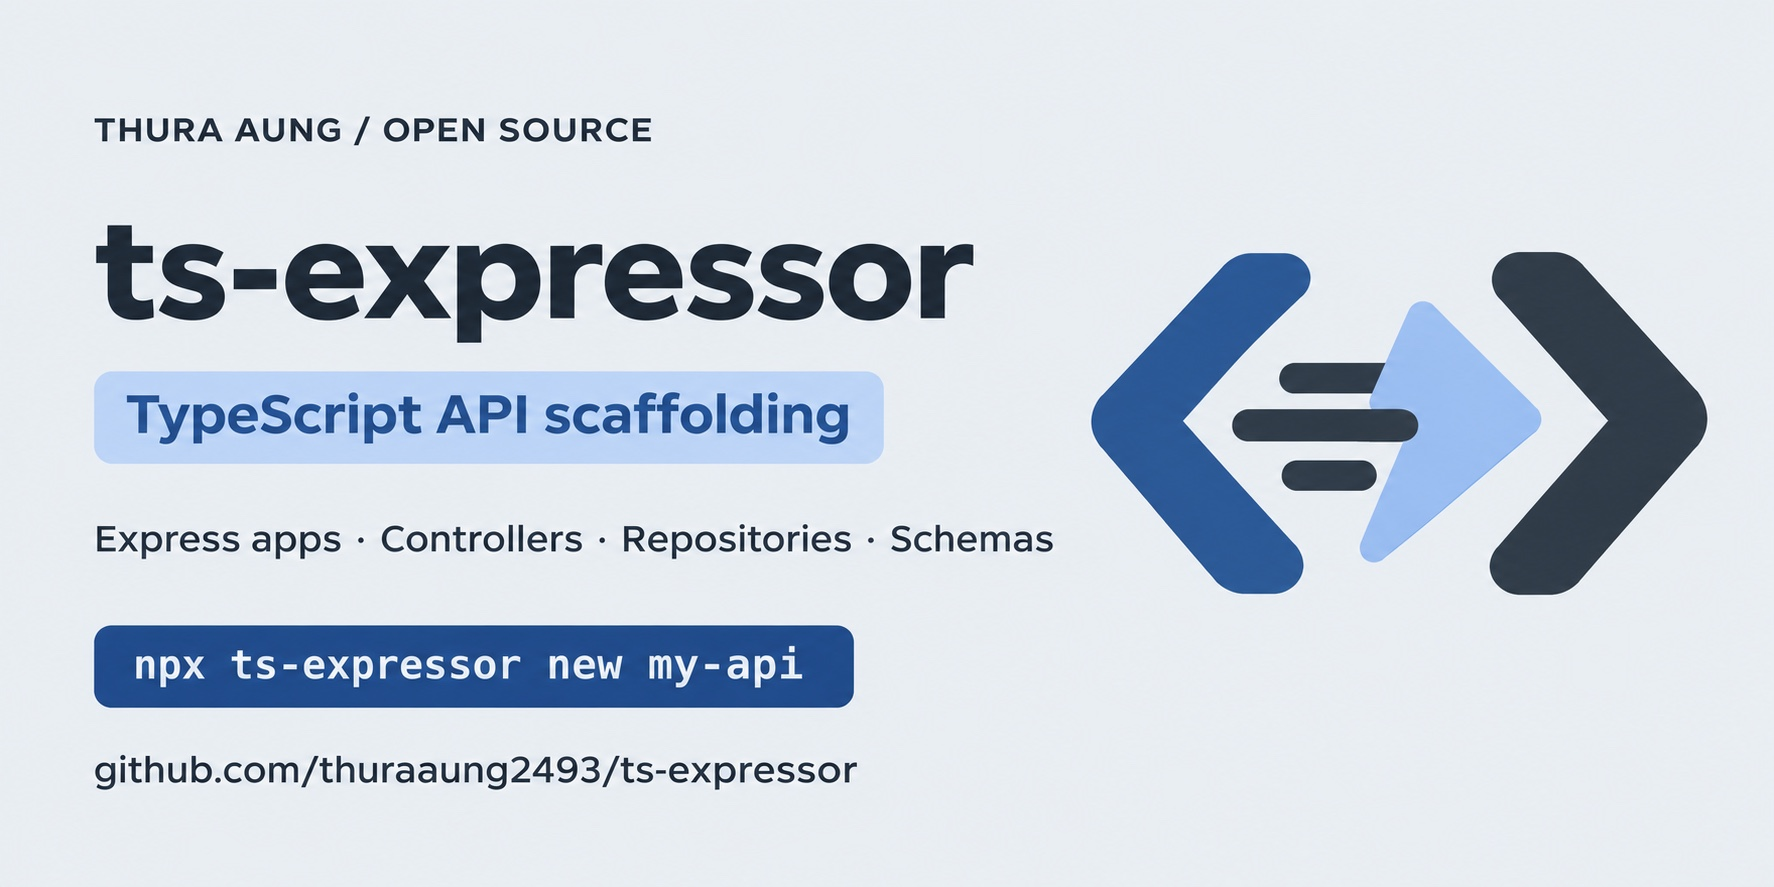
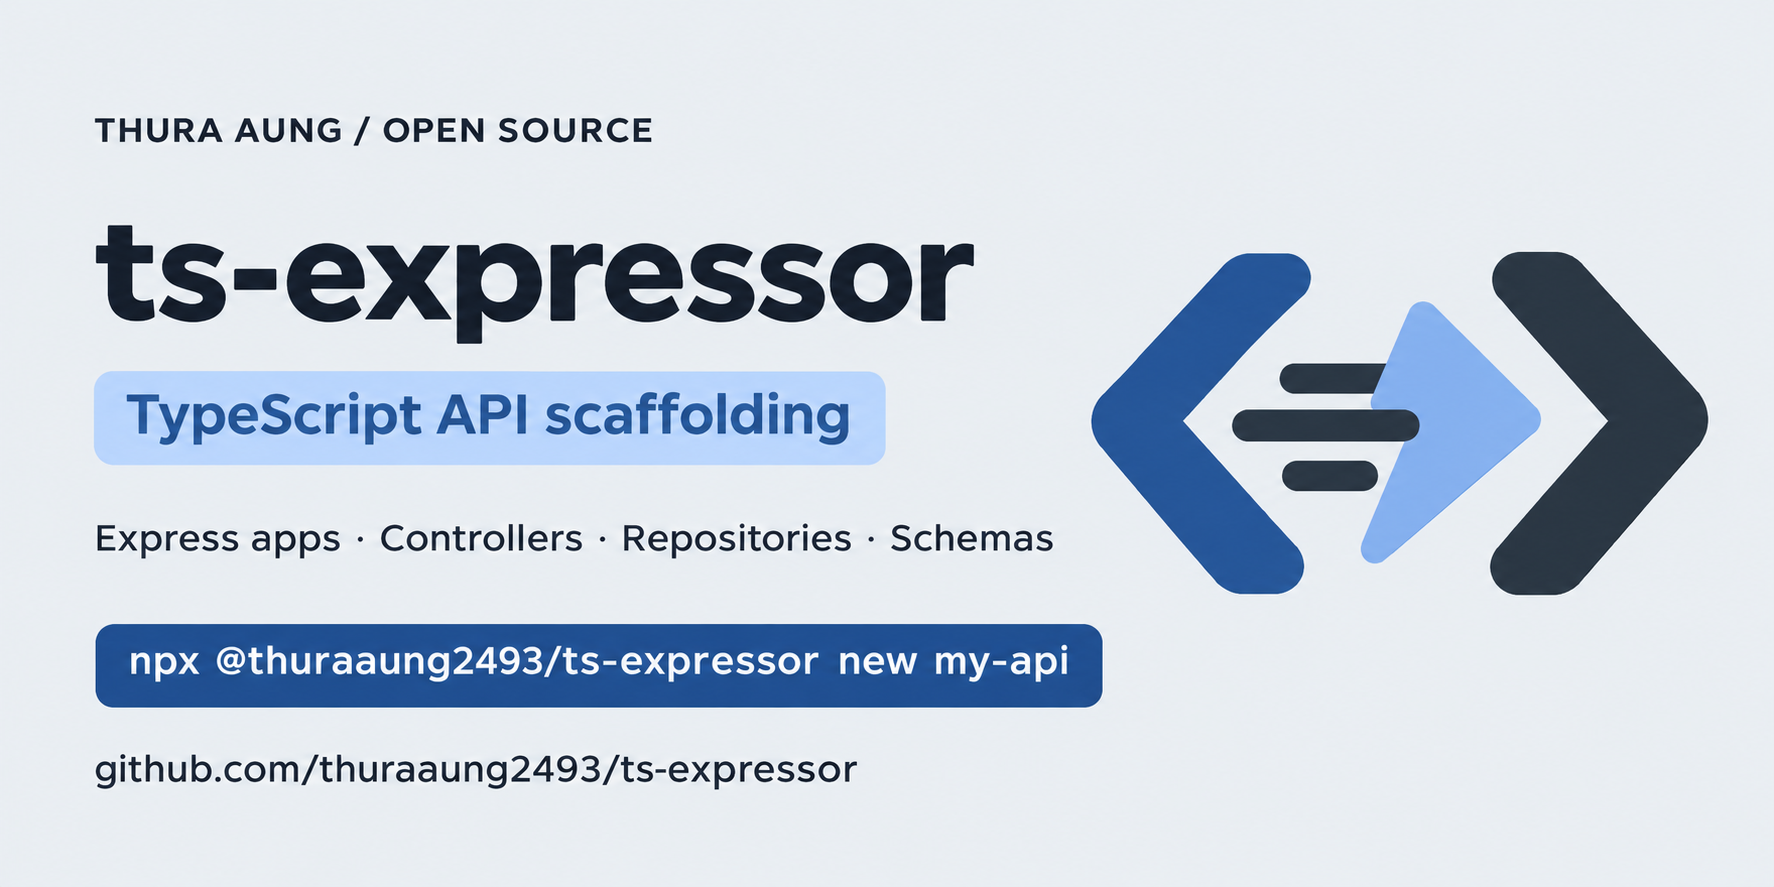
chore: release v0.0.4 with updated branding

diff --git a/assets/branding/PROMPTS.md b/assets/branding/PROMPTS.md
@@ -28,6 +28,6 @@ Top label: "THURA AUNG / OPEN SOURCE"
 Large main title: "ts-expressor"
 Subtitle: "TypeScript API scaffolding"
 Supporting line: "Express apps · Controllers · Repositories · Schemas"
-Command capsule: "npx ts-expressor new my-api"
+Command capsule: "npx @thuraaung2493/ts-expressor new my-api"
 Footer: "github.com/thuraaung2493/ts-expressor"
 Render all text accurately and legibly, especially ts-expressor with its hyphen. No extra logos, badges, versions, claims, watermark or mockup. The final deliverable is one complete ready-to-upload social card matching the sibling's brand family.
